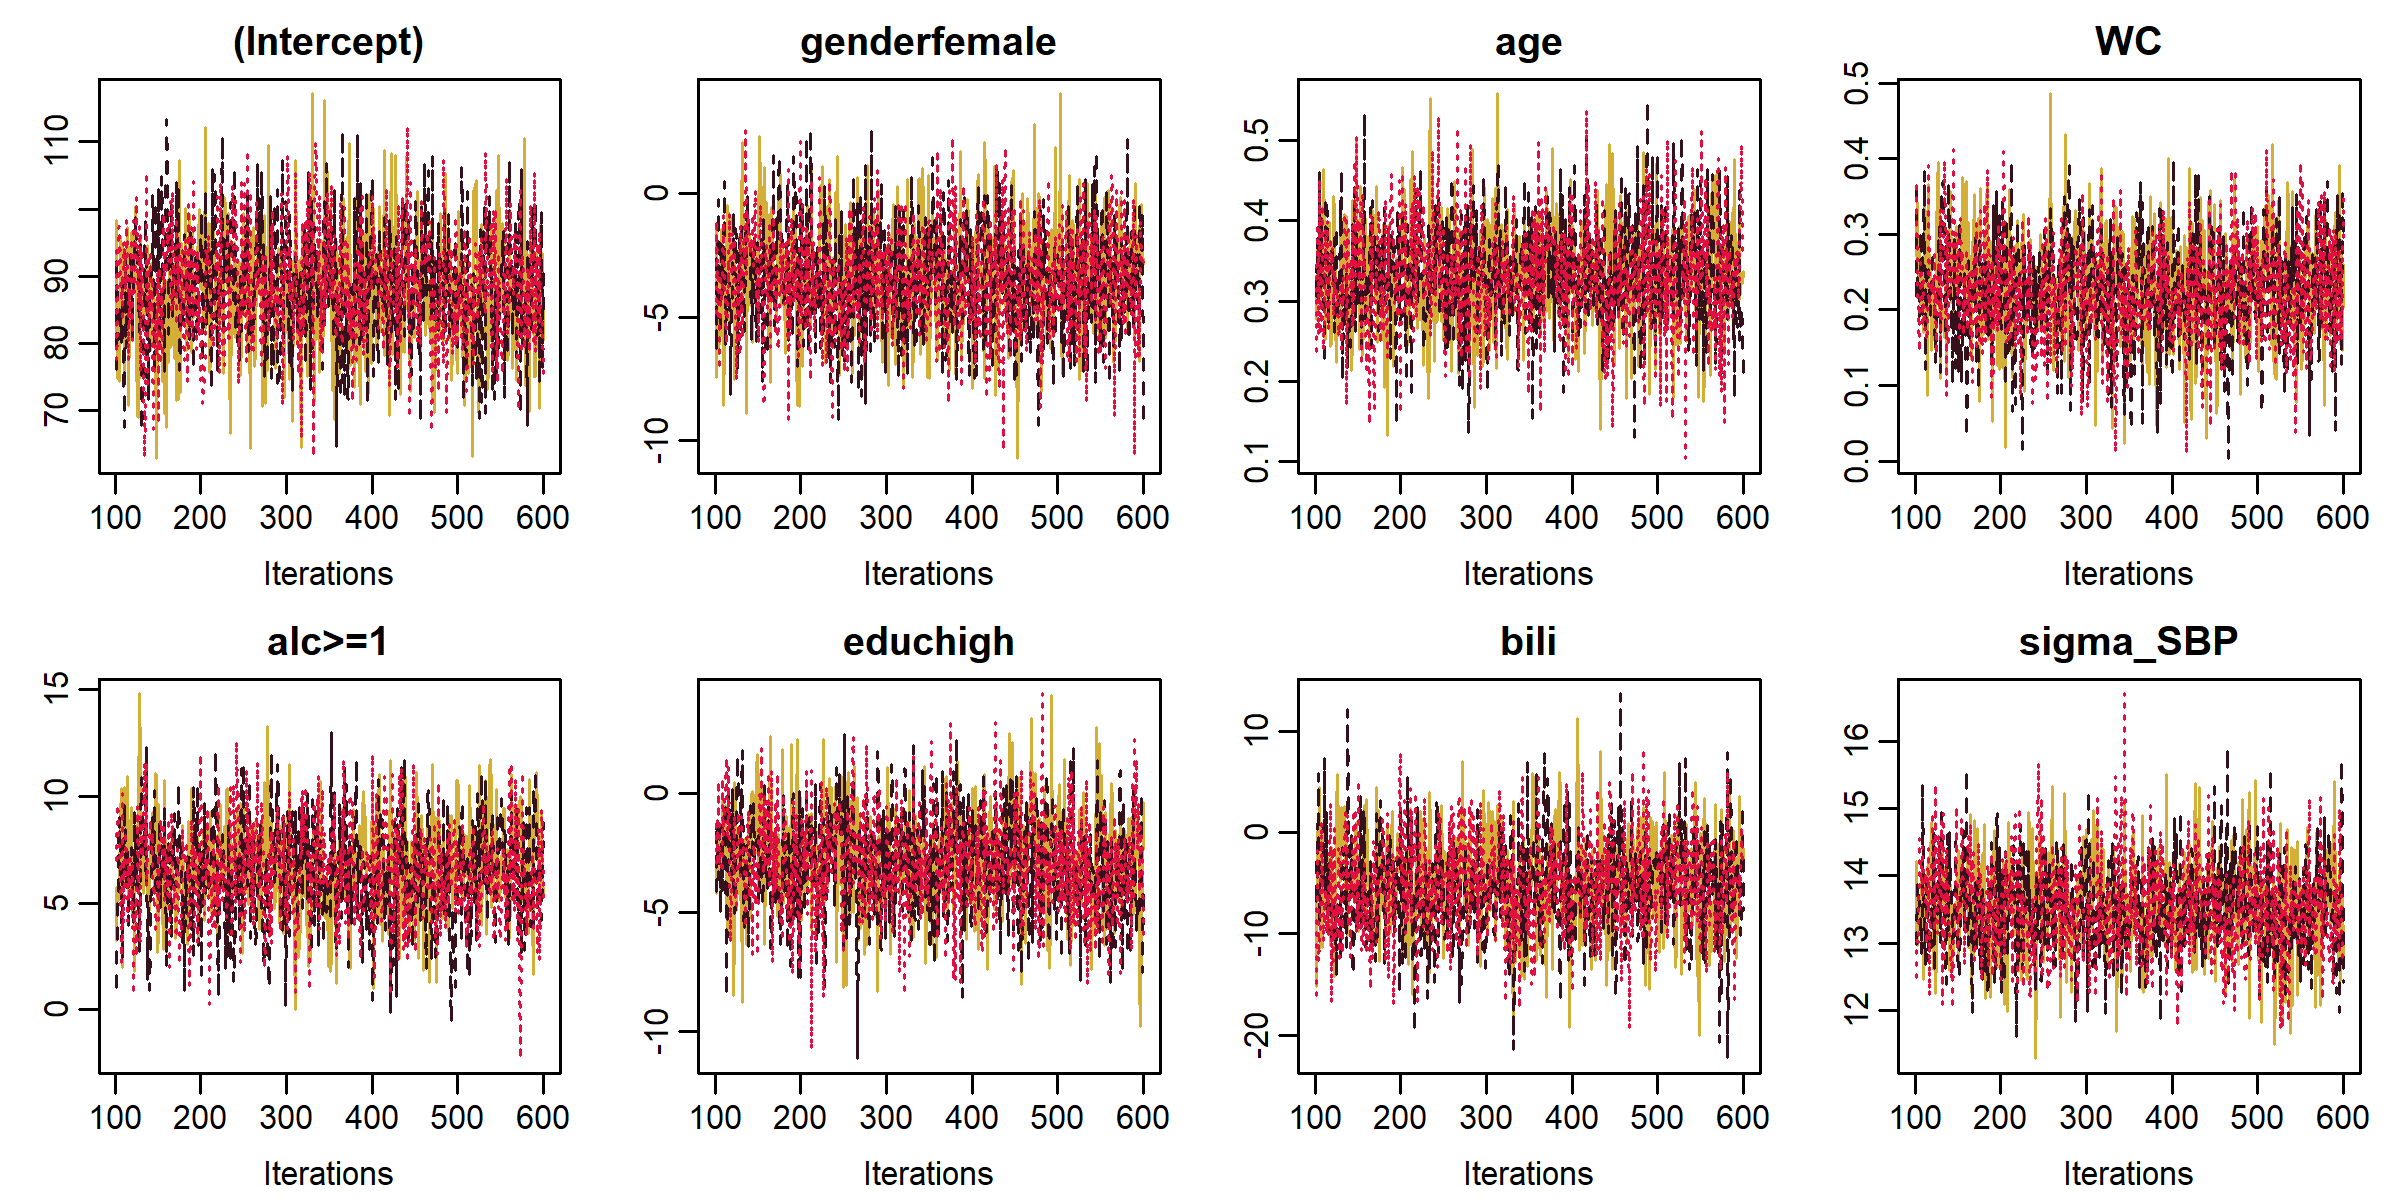
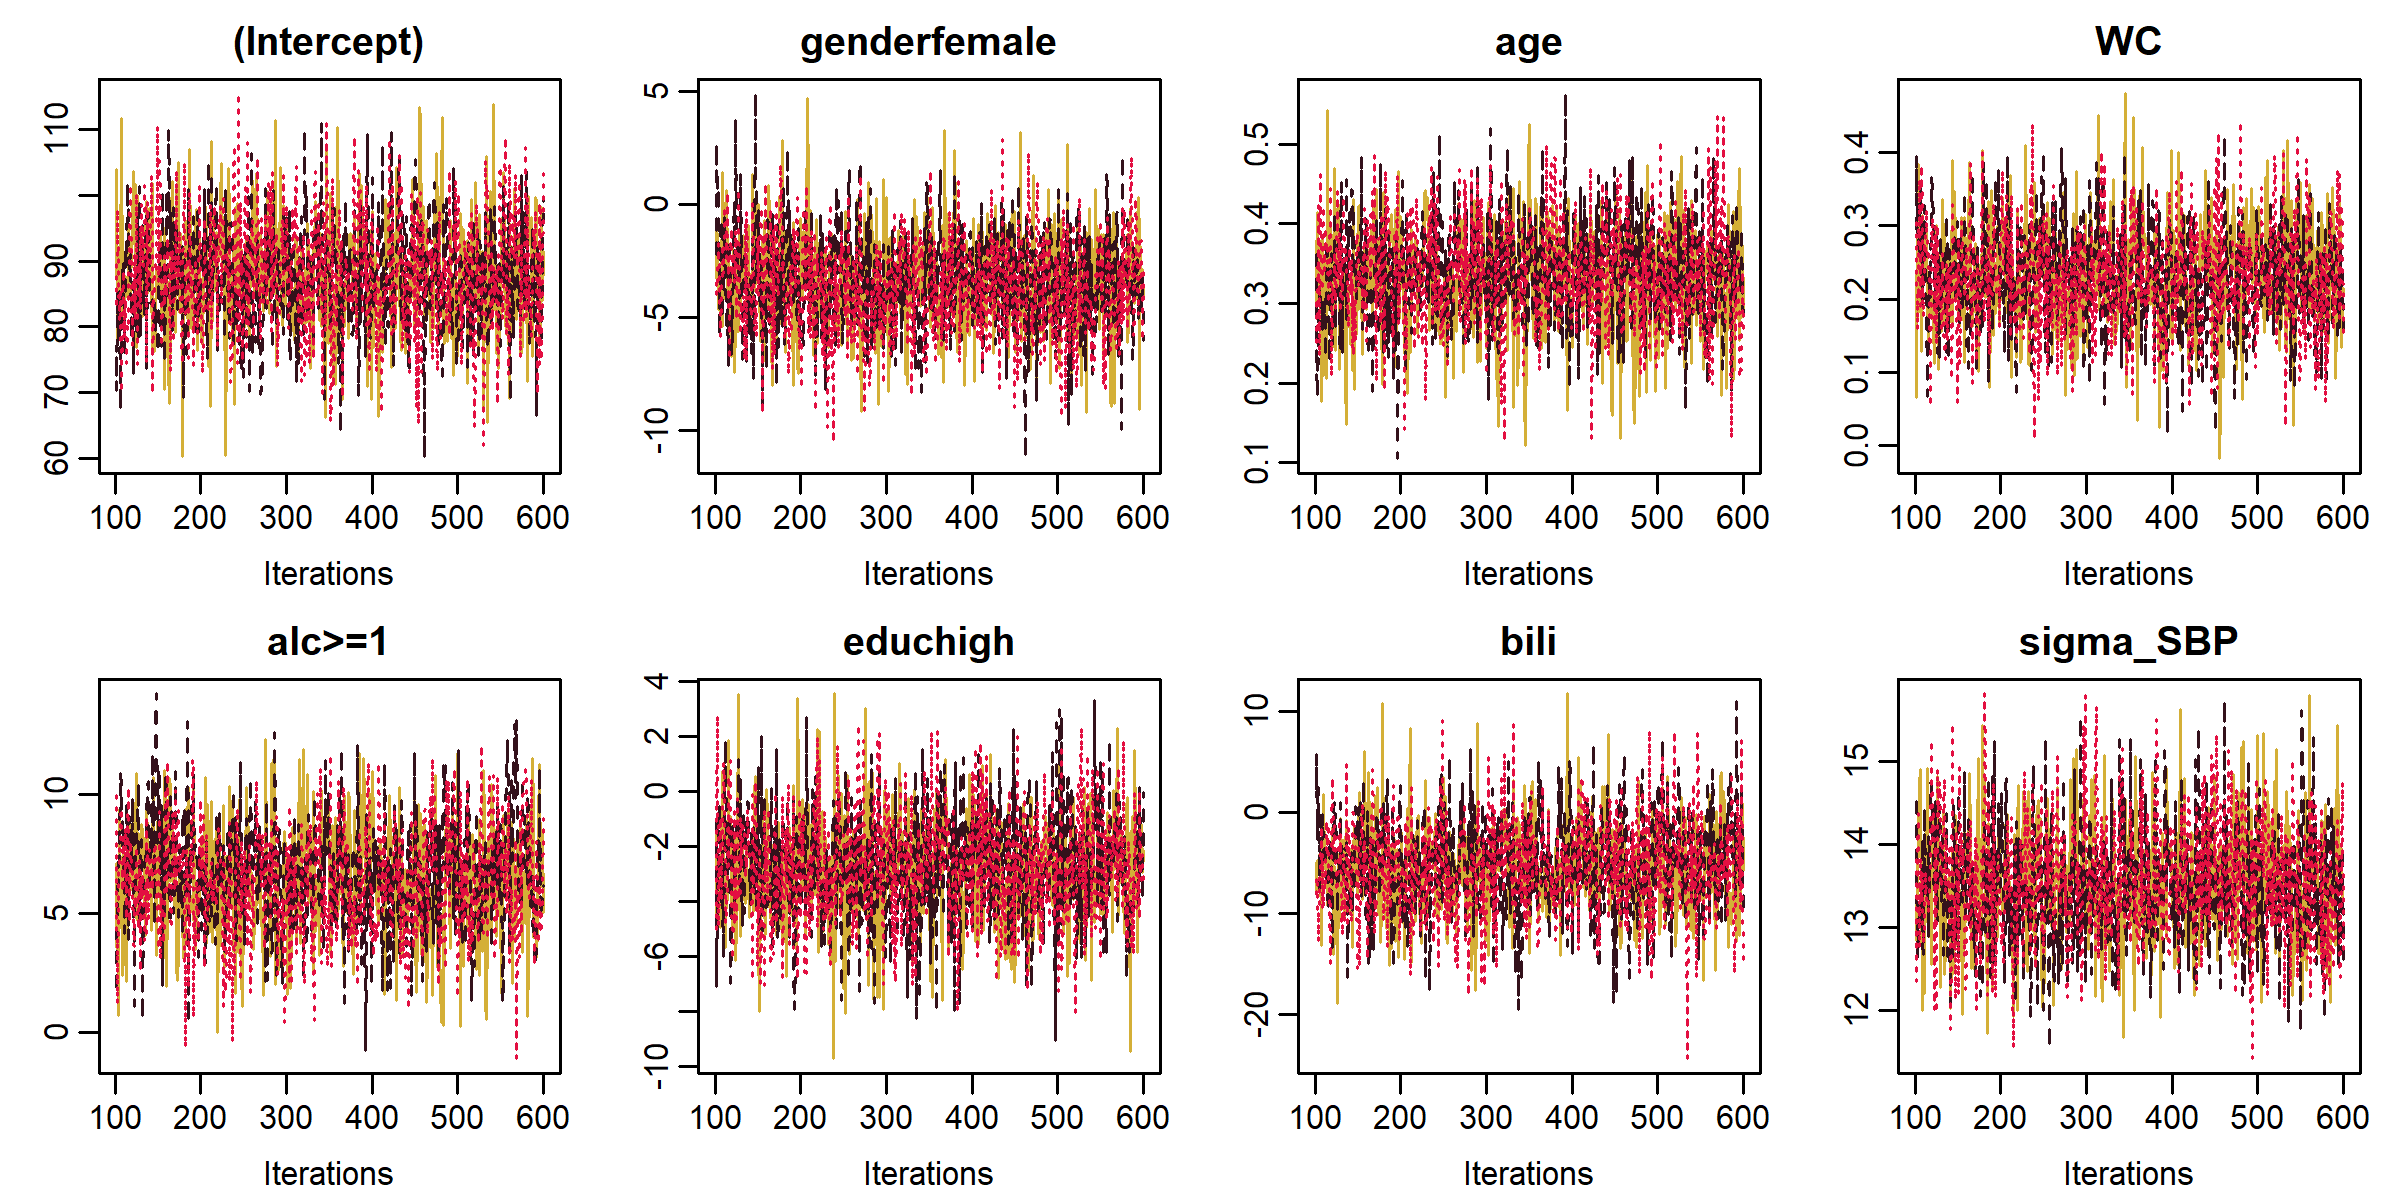
update readme: include new model types; change devtools to remotes

diff --git a/README.md b/README.md
@@ -27,44 +27,51 @@ the help of the R package
 
 ## Installation
 
-You can install **JointAI** from GitHub with:
+**JointAI** can be installed from [CRAN](https://cran.r-project.org/):
 
 ``` r
-# install.packages("devtools")
-devtools::install_github("NErler/JointAI")
+install.packages('JointAI')
+```
+
+Alternatively, you can install **JointAI** from GitHub:
+
+``` r
+# install.packages("remotes")
+remotes::install_github("NErler/JointAI")
 ```
 
 ## Main functions
 
-Currently, there are the following main functions:
+**JointAI** provides the following main functions:
 
 ``` r
-lm_imp()      # linear regression
-glm_imp()     # generalized linear regression 
-clm_imp()     # cumulative logit model
-lme_imp()     # linear mixed model
-glme_imp()    # generalized linear mixed model
-clmm_imp()    # cumulative logit mixed model
-survreg_imp() # parametric (Weibull) survival model
-coxph_imp()   # Cox proportional hazards survival model
+lm_imp()                 # linear regression
+glm_imp()                # generalized linear regression
+clm_imp()                # cumulative logit model
+mlogit_imp()             # multinomial logit model
+lognorm_imp()            # log-normal regression
+betareg_imp()            # beta regression
+lme_imp() / lmer_imp()   # linear mixed model
+glme_imp() / glmer_imp() # generalized linear mixed model
+clmm_imp()               # cumulative logit mixed model
+mlogitmm_imp()           # multinomial logit model
+lognormmm_imp()          # log-normal regression
+betamm_imp()             # beta regression
+survreg_imp()            # parametric (Weibull) survival model
+coxph_imp()              # proportional hazards survival model
+JM_imp()                 # joint model for longitudinal and survival data
 ```
 
-The functions `lm_imp()`, `glm_imp()` and `clm_imp()` use specification
-similar to their complete data counterparts `lm()` and `glm()` from base
-R and `clm()` from the package
-[**ordinal**](https://CRAN.R-project.org/package=ordinal).
+The functions use specification similar to that of well known standard
+functions like `lm()` and `glm()` from base R, `lme()` (from the package
+[**nlme**](https://CRAN.R-project.org/package=nlme)) , `lmer()` or
+`glmer()` (from the package
+[**lme4**](https://CRAN.R-project.org/package=lme4)) and `survreg()` and
+`coxph()` (from the package
+[**survival**](https://CRAN.R-project.org/package=survival)).
 
-The functions for mixed models, `lme_imp()`, `glme_imp()` and
-`clmm_imp()` use similar specification as `lme()` from the package
-[**nlme**](https://CRAN.R-project.org/package=nlme) (and `clmm2()` from
-[**ordinal**](https://CRAN.R-project.org/package=nlme)).
-
-`survreg_imp()` and `coxph_imp()` are missing data versions of
-`survreg()` and `coxph()` from the package
-[**survival**](https://CRAN.R-project.org/package=survival).
-
-Functions `summary()`, `coef()`, `traceplot()` and `densityplot()`
-provide a summary of the posterior distribution and its visualization.
+Functions `summary()`, `coef()`, `traceplot()` and `densplot()` provide
+a summary of the posterior distribution and its visualization.
 
 `GR_crit()` and `MC_error()` provide the Gelman-Rubin diagnostic for
 convergence and the Monte Carlo error of the MCMC sample, respectively.
@@ -99,7 +106,7 @@ md_pattern(NHANES, color = c('#34111b', '#e30f41'))
 
 ``` r
 lm1 <- lm_imp(SBP ~ gender + age + WC + alc + educ + bili,
-              data = NHANES, n.iter = 500, progress.bar = 'none')
+              data = NHANES, n.iter = 500, progress.bar = 'none', seed = 2020)
 ```
 
 ### Visualize the MCMC sample
@@ -121,25 +128,26 @@ densplot(lm1, col = c('#d4af37', '#34111b', '#e30f41'), ncol = 4, lwd = 2)
 ``` r
 summary(lm1)
 #> 
-#>  Linear model fitted with JointAI 
+#> Linear model fitted with JointAI
 #> 
 #> Call:
 #> lm_imp(formula = SBP ~ gender + age + WC + alc + educ + bili, 
-#>     data = NHANES, n.iter = 500, progress.bar = "none")
+#>     data = NHANES, n.iter = 500, seed = 2020, progress.bar = "none")
+#> 
 #> 
 #> Posterior summary:
-#>                Mean     SD     2.5%   97.5% tail-prob. GR-crit
-#> (Intercept)  88.025 8.6968  70.8670 105.632      0.000    1.02
-#> genderfemale -3.381 2.2125  -7.6129   0.773      0.132    1.00
-#> age           0.331 0.0684   0.1964   0.467      0.000    1.00
-#> WC            0.226 0.0719   0.0785   0.367      0.000    1.01
-#> alc>=1        6.511 2.3366   1.8639  11.069      0.004    1.02
-#> educhigh     -2.879 2.1689  -7.1914   1.259      0.180    1.00
-#> bili         -5.204 4.9315 -14.6288   4.363      0.285    1.01
+#>                Mean     SD     2.5%   97.5% tail-prob. GR-crit MC error
+#> (Intercept)  87.662 8.6088  70.3830 104.899    0.00000    1.00   0.0271
+#> genderfemale -3.487 2.2407  -7.9563   0.818    0.10533    1.01   0.0258
+#> age           0.334 0.0683   0.1986   0.468    0.00000    1.01   0.0258
+#> WC            0.230 0.0721   0.0876   0.376    0.00133    1.00   0.0258
+#> alc>=1        6.419 2.3862   1.6656  11.112    0.00667    1.03   0.0358
+#> educhigh     -2.805 2.0681  -6.9371   1.339    0.17067    1.00   0.0258
+#> bili         -5.277 4.7332 -14.7727   3.596    0.25333    1.01   0.0290
 #> 
 #> Posterior summary of residual std. deviation:
-#>           Mean    SD 2.5% 97.5% GR-crit
-#> sigma_SBP 13.5 0.719 12.2    15       1
+#>           Mean    SD 2.5% 97.5% GR-crit MC error
+#> sigma_SBP 13.5 0.725 12.2    15    1.01   0.0258
 #> 
 #> 
 #> MCMC settings:
@@ -148,24 +156,36 @@ summary(lm1)
 #> Thinning interval = 1 
 #> Number of chains = 3 
 #> 
-#> Number of observations: 186
+#> Number of observations: 186 
+#> 
+#> 
+#> Number and proportion of missing values:
+#>        variable # NA  % NA
+#> SBP         SBP    0  0.00
+#> gender   gender    0  0.00
+#> age         age    0  0.00
+#> educ       educ    0  0.00
+#> WC           WC    2  1.08
+#> bili       bili    8  4.30
+#> alc         alc   34 18.28
 ```
 
 ``` r
 coef(lm1)
-#>  (Intercept) genderfemale          age           WC       alc>=1 
-#>   88.0248471   -3.3813839    0.3311555    0.2262784    6.5108742 
-#>     educhigh         bili 
-#>   -2.8786675   -5.2036401
+#> $SBP
+#>  (Intercept) genderfemale          age           WC       alc>=1     educhigh 
+#>   87.6622381   -3.4873104    0.3335133    0.2302755    6.4194926   -2.8054874 
+#>         bili 
+#>   -5.2768560
 
 confint(lm1)
-#>                      2.5%       97.5%
-#> (Intercept)   70.86702410 105.6319683
-#> genderfemale  -7.61290048   0.7729665
-#> age            0.19635287   0.4666932
-#> WC             0.07848737   0.3665819
-#> alc>=1         1.86385015  11.0693444
-#> educhigh      -7.19135991   1.2594576
-#> bili         -14.62875674   4.3625267
-#> sigma_SBP     12.19691645  14.9589424
+#>                   2.5%       97.5%
+#> beta[1]    70.38301720 104.8986161
+#> beta[2]    -7.95631510   0.8182921
+#> beta[3]     0.19857014   0.4678630
+#> beta[4]     0.08761699   0.3756334
+#> beta[5]     1.66562640  11.1121370
+#> beta[6]    -6.93714769   1.3389344
+#> beta[7]   -14.77269911   3.5955383
+#> sigma_SBP  12.16165429  15.0367180
 ```
